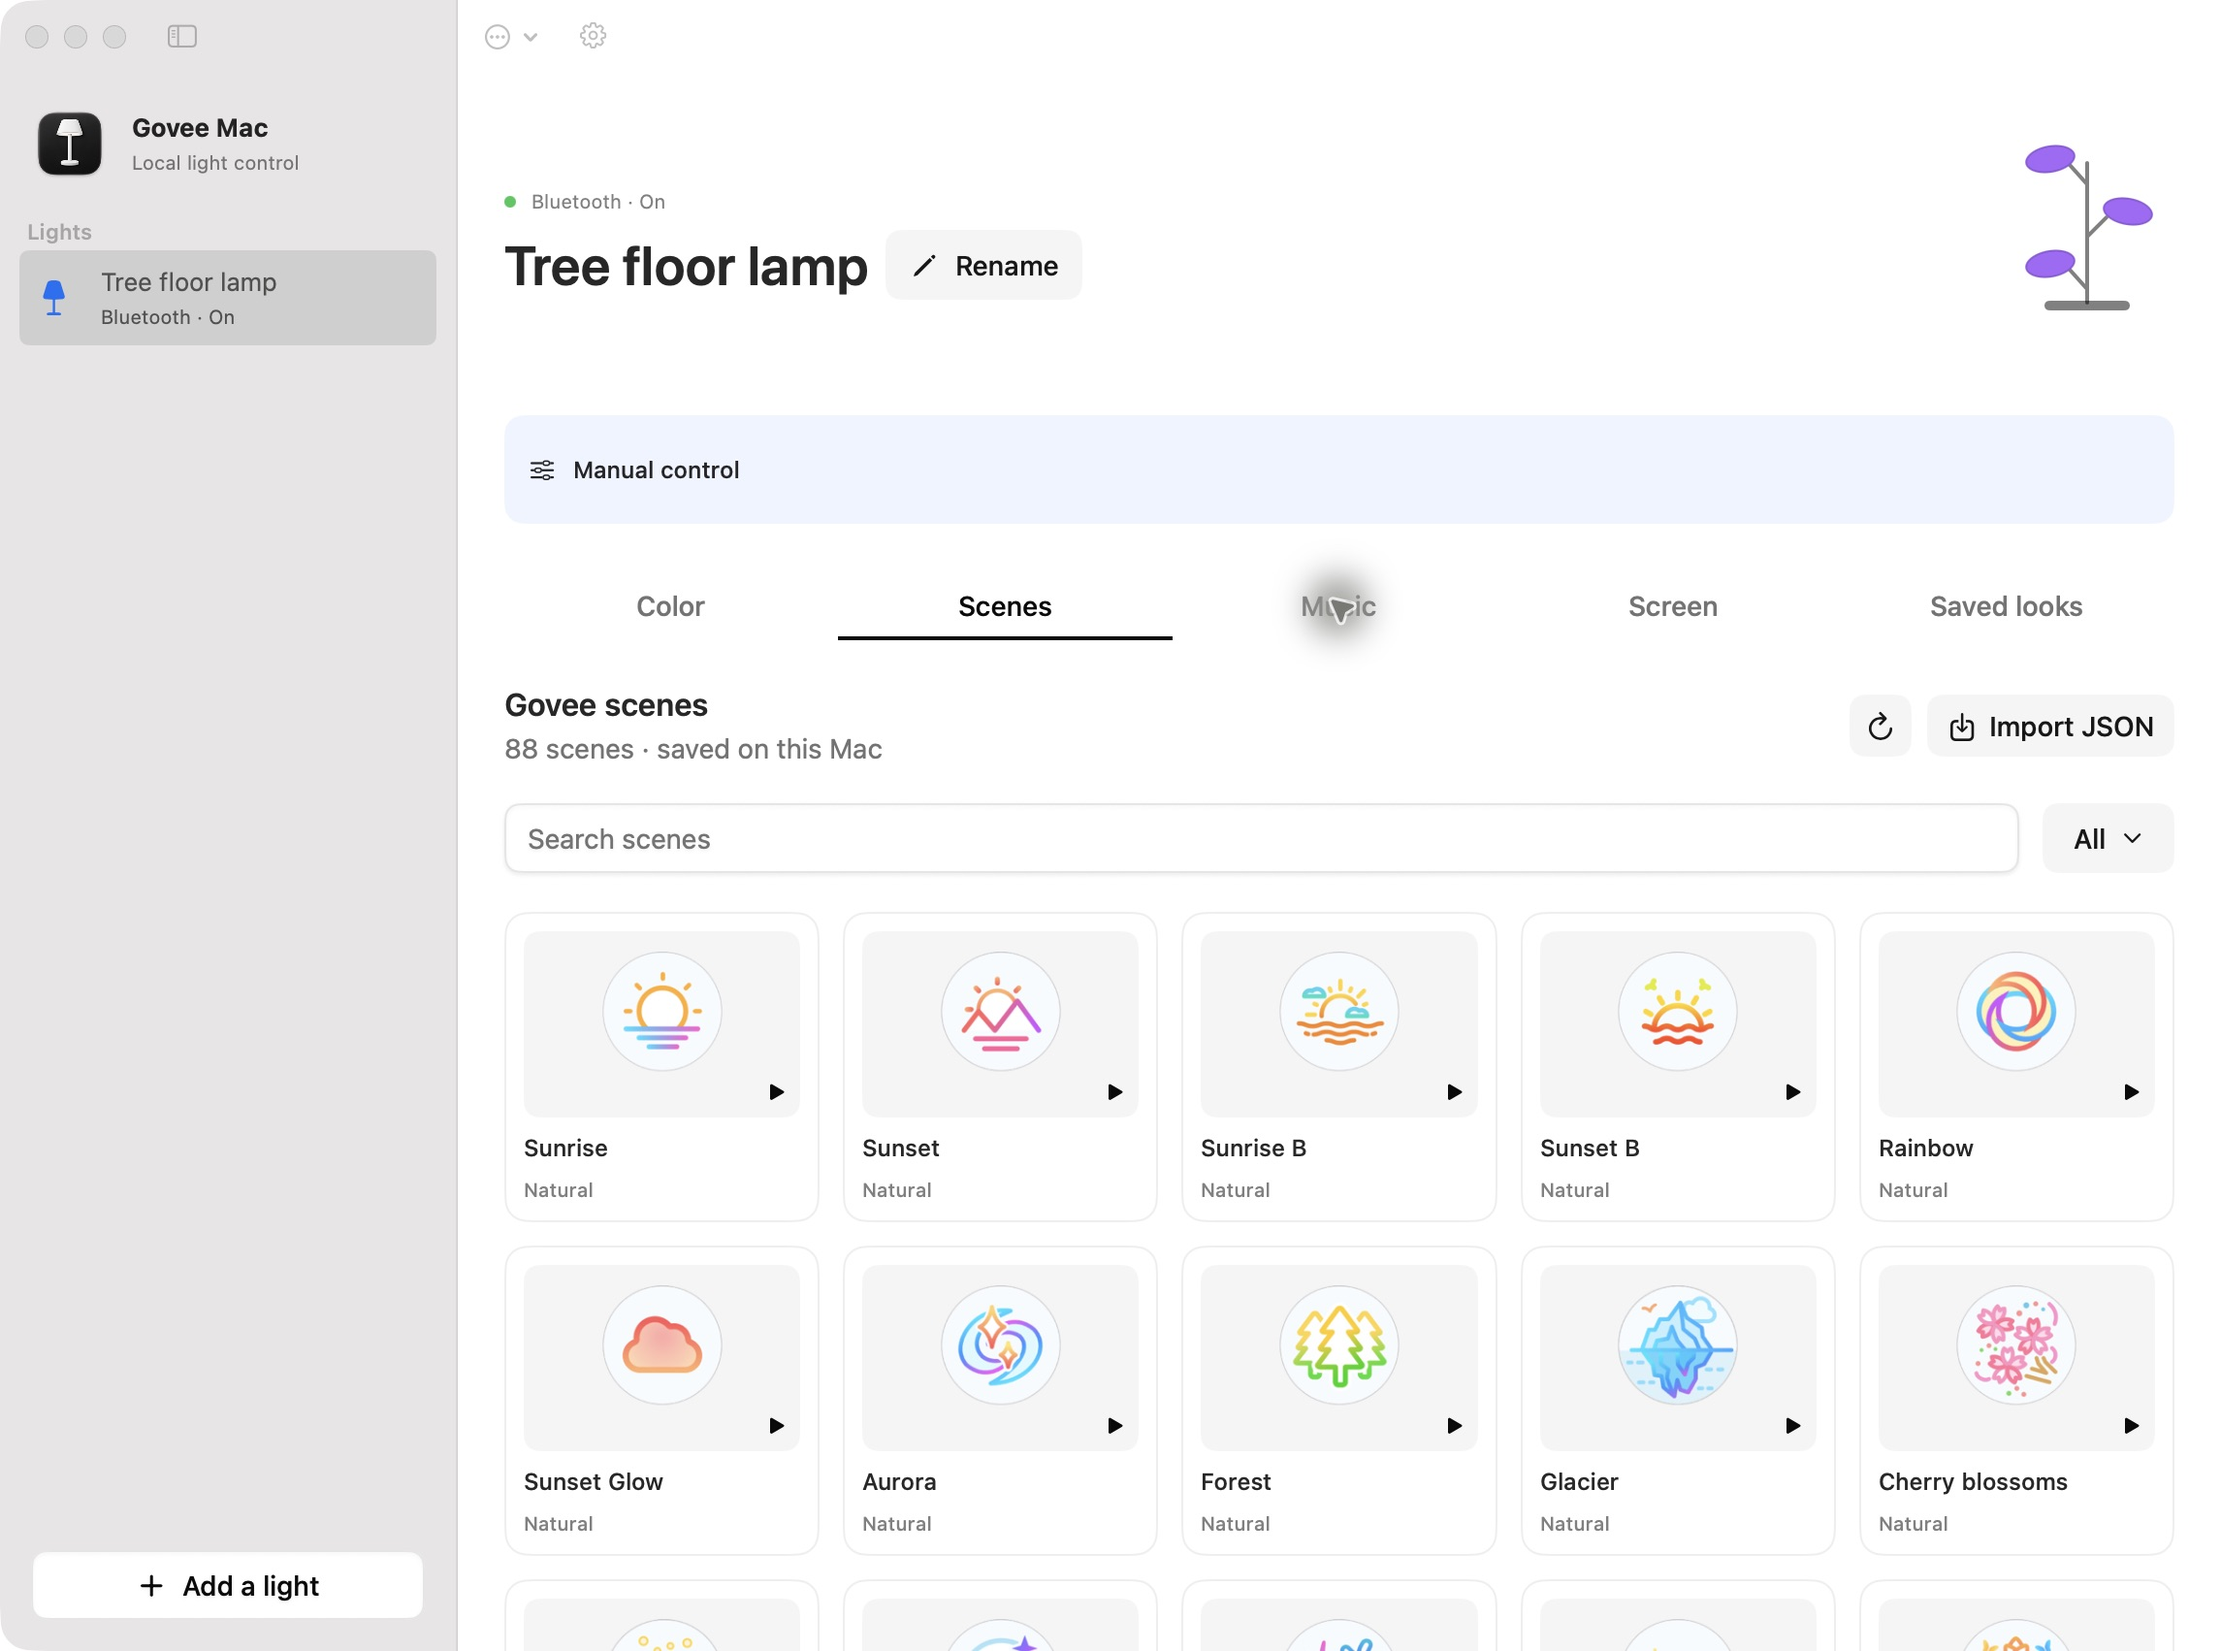
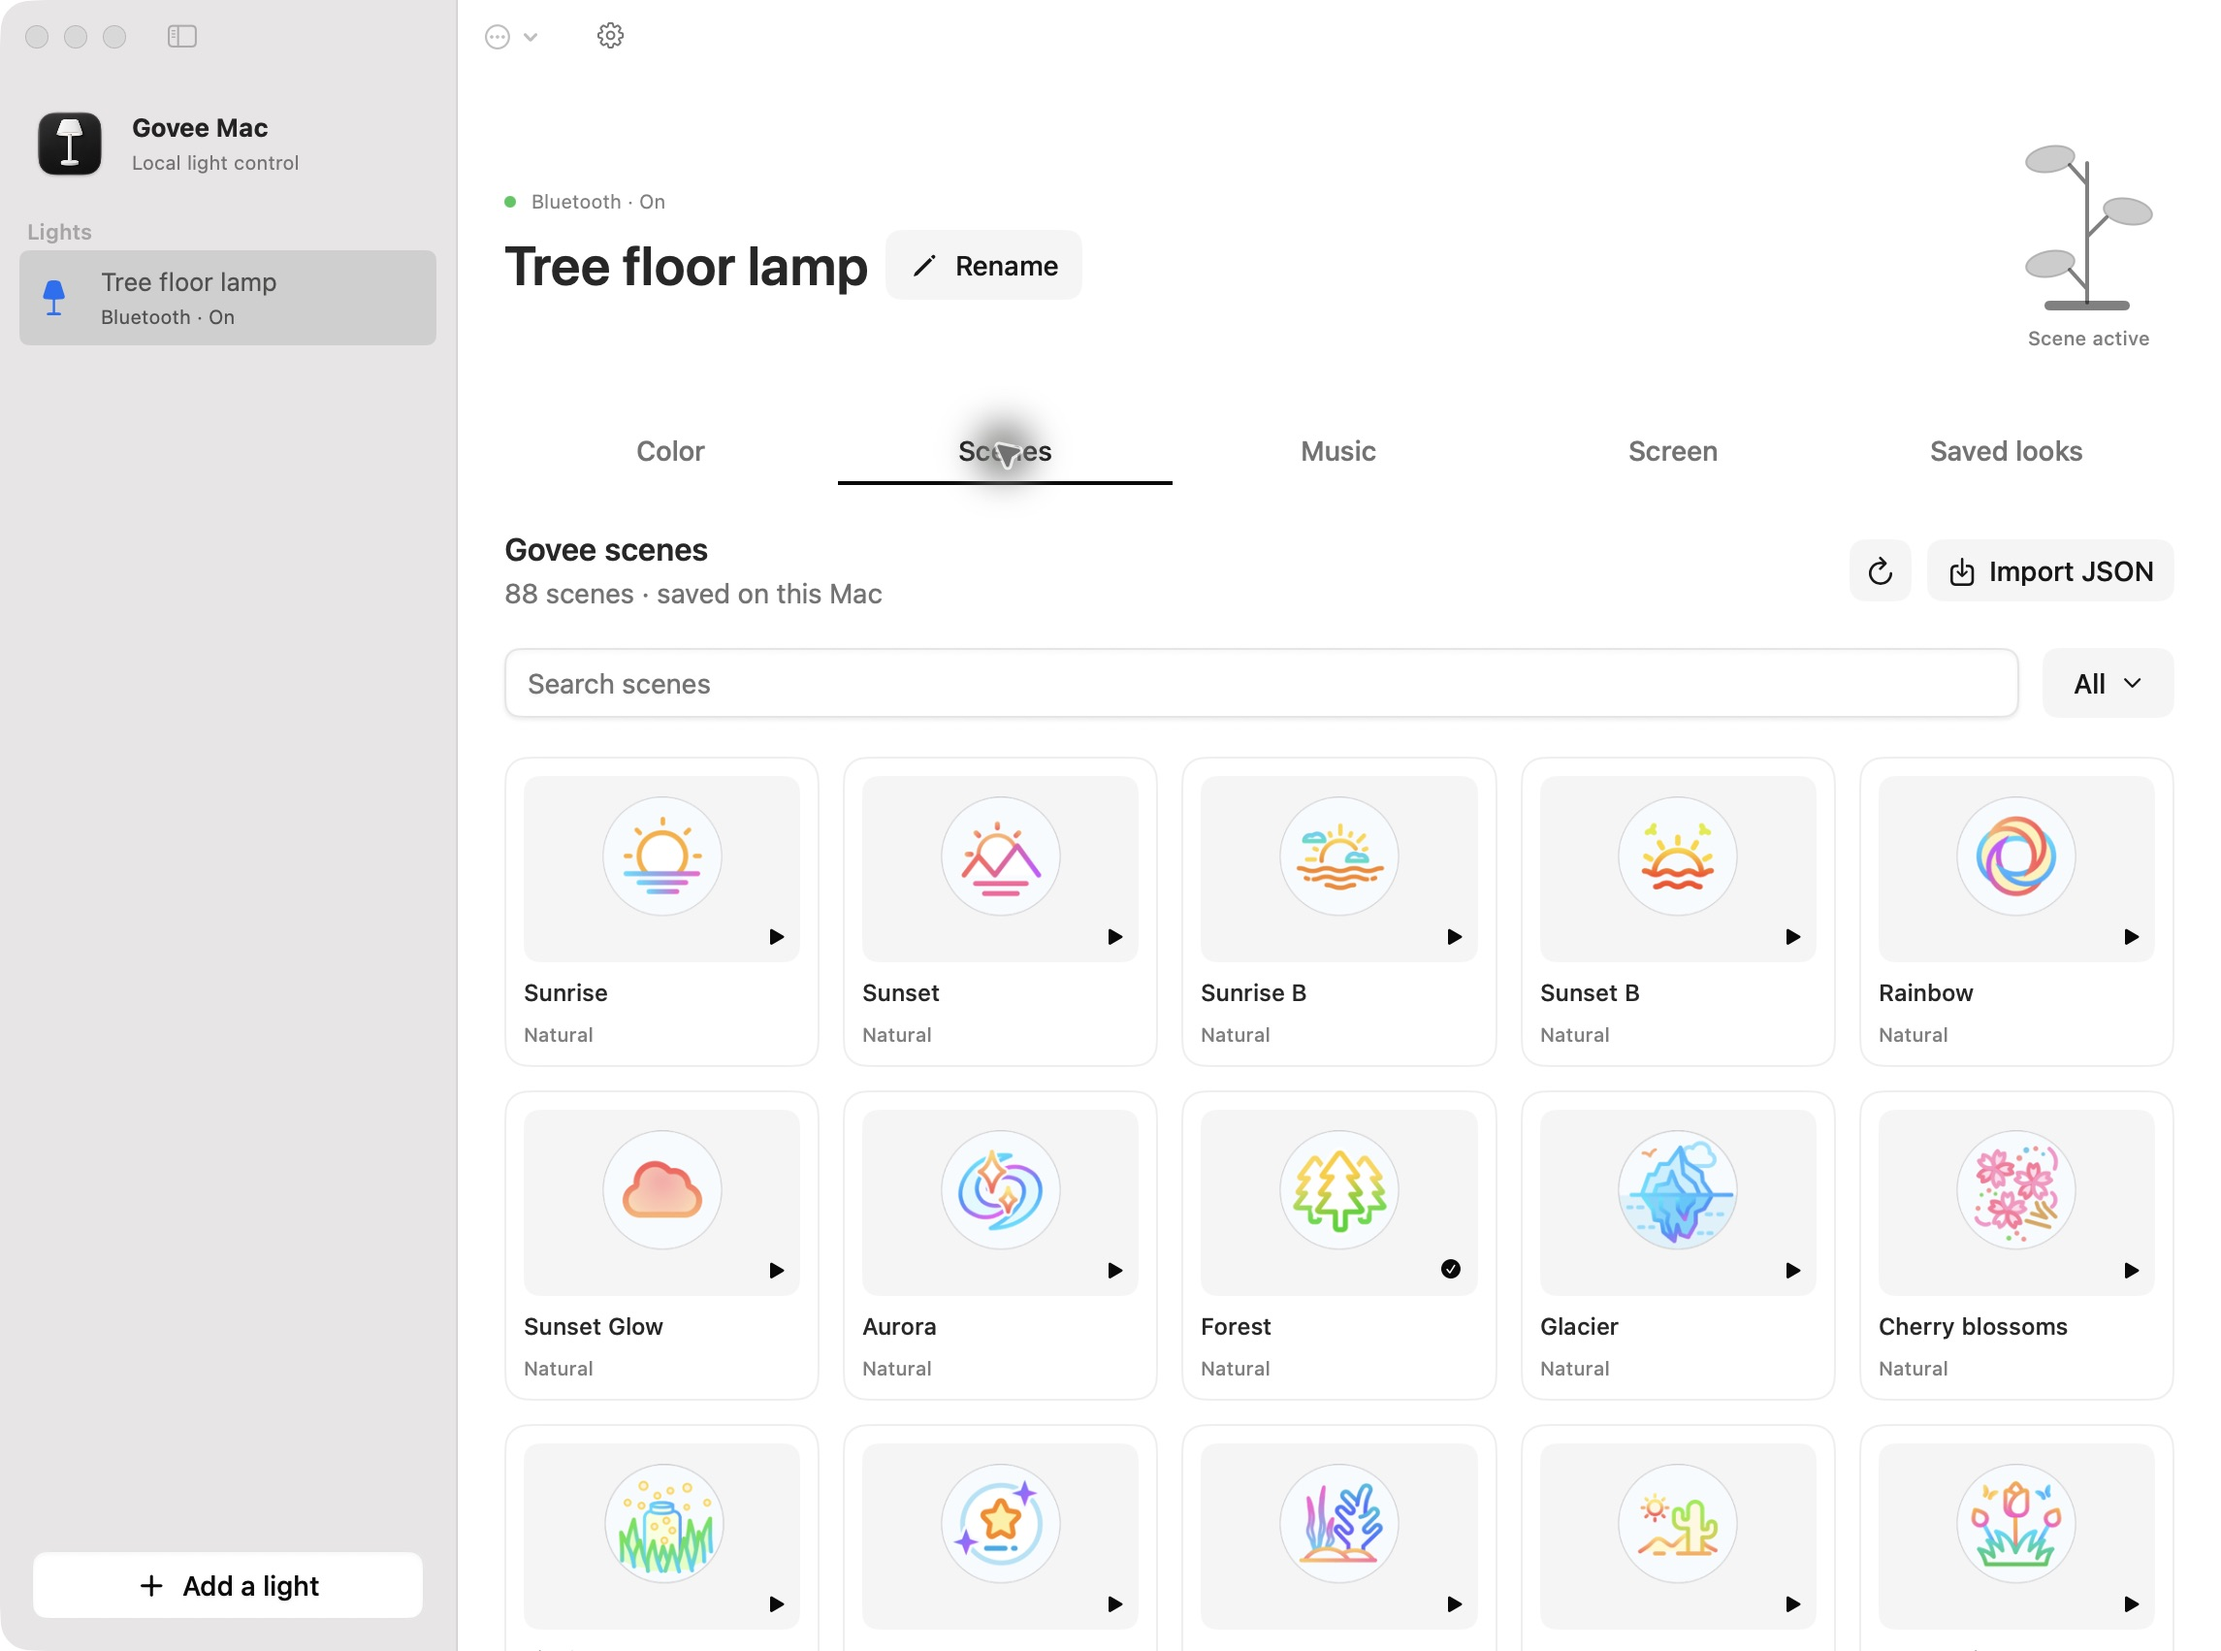
Remove the lighting status bar from the detail page

diff --git a/Sources/GoveeMac/Views/DeviceDetailView.swift b/Sources/GoveeMac/Views/DeviceDetailView.swift
@@ -35,7 +35,6 @@ struct DeviceDetailView: View {
                         ShadcnButton("Retry", variant: .outline, size: .small) { Task { await store.scanLAN() } }
                     }
                 }
-                LiveStatusRow(live: store.live, deviceID: device.id, sceneName: store.activeScenes[device.id])
                 LightTabsView(selection: $tab)
 
                 switch tab {
@@ -111,38 +110,5 @@ struct DeviceDetailView: View {
                 ShadcnButton(actionTitle, action: action).keyboardShortcut(.defaultAction).disabled(!valid)
             }
         }.padding(Space.x6).frame(width: 420)
-    }
-}
-
-/// A permanent row keeps the page in place when lighting starts or stops.
-private struct LiveStatusRow: View {
-    let live: LiveController
-    let deviceID: String
-    let sceneName: String?
-    private var active: Bool { live.deviceID == deviceID || live.colorEffects.deviceID == deviceID }
-    private var title: String {
-        let base = live.deviceID == deviceID ? live.mode : sceneName.map { "Scene · \($0)" } ?? "Manual control"
-        return live.colorEffects.deviceID == deviceID ? "\(base) · \(live.colorEffects.effect?.title ?? "Effect")" : base
-    }
-
-    var body: some View {
-        HStack(spacing: 12) {
-            Label(title,
-                  systemImage: active ? "waveform.path" : sceneName == nil ? "slider.horizontal.3" : "sparkles")
-                .font(.callout.weight(.medium))
-            Spacer(minLength: 0)
-            ProgressView().controlSize(.small).opacity(live.isStarting || live.colorEffects.isStarting ? 1 : 0)
-                .accessibilityHidden(!live.isStarting && !live.colorEffects.isStarting)
-            if active {
-                ShadcnButton("Stop & restore", variant: .secondary, size: .small) {
-                    Task { await live.stop(restore: true) }
-                }
-            }
-        }
-        .padding(12)
-        .frame(height: 56)
-        .background(.tint.opacity(0.08), in: RoundedRectangle(cornerRadius: 10))
-        .accessibilityElement(children: .contain)
-        .accessibilityIdentifier("live-status-row")
     }
 }

diff --git a/README.md b/README.md
@@ -88,11 +88,11 @@ See [CLI & agent control](docs/CLI.md) and [scenes, import, music & screen match
 
 `GoveeKit` contains Sendable value models, LAN/BLE packet codecs, and the legacy session cipher, with no UI or third-party dependencies. `GoveeMac` contains the SwiftUI app, shared observable store, CoreBluetooth service, and a serial-queue UDP transport. Its buttons, switches, sliders, tabs, badges, alerts, inputs, and wrapping layout come from [ShadKit](https://github.com/jasonkneen/ShadKit), a SwiftUI component library based on shadcn/ui. Cards compose ShadKit's header/content/footer components with its palette, border and spacing in a shadow-free `FlatCard` surface. Navigation, empty states, system menus, sheets, and color picking use native macOS components. The app remains entirely Swift. Commands are serialized per light; color-picker and slider edits are debounced and BLE writes respect backpressure. Bluetooth state is queried after manual commands; session keys are kept only in memory and discarded at disconnect.
 
-ShadKit is pinned in `Package.swift` and `Package.resolved` to revision `6dbefdeb72a276708b7ca748c71ac166c0f4f17d`, which includes keyboard and accessibility support for its switches and sliders. Only its `ShadcnUI` product is linked. The standard neutral theme follows the system appearance. Light controls share equal-height panels, circular color swatches, and library inputs and sliders. Brightness shortcuts fill their panel, with two or four columns according to its width. A compact Effect menu adds brightness motion while preserving the current colors, head settings, or native scene program. Scene cards use enlarged Govee icons with neutral fallbacks. The lighting status row stays in place, and sending a command does not dim the scene or saved-look grid. Settings opens in the main window; identifiers are in its diagnostics card, and Disconnect is in the light's sidebar context menu. Scroll indicators are hidden while scrolling remains available.
+ShadKit is pinned in `Package.swift` and `Package.resolved` to revision `6dbefdeb72a276708b7ca748c71ac166c0f4f17d`, which includes keyboard and accessibility support for its switches and sliders. Only its `ShadcnUI` product is linked. The standard neutral theme follows the system appearance. Light controls share equal-height panels, circular color swatches, and library inputs and sliders. Brightness shortcuts fill their panel, with two or four columns according to its width. A compact Effect menu adds brightness motion while preserving the current colors, head settings, or native scene program. Scene cards use enlarged Govee icons with neutral fallbacks. Sending a command does not dim the scene or saved-look grid. Settings opens in the main window; identifiers are in its diagnostics card, and Disconnect is in the light's sidebar context menu. Scroll indicators are hidden while scrolling remains available.
 
 Page tabs share equal widths, type size, and height. Their buttons compose ShadKit's bare-button style, typography, and palette; selecting a tab changes the page without animating the whole layout. Scene search and category selection survive tab changes. Scene artwork is decoded to small thumbnails off the main thread, with a bounded cache of 128 images reused when returning to Scenes. Screen matching reuses its display list until you refresh it. The release build option above avoids evaluating UI performance in an unoptimized development build.
 
-Rename is centered beside the light's title. The active scene appears in the labeled lighting status row. Sliders hide the rectangular focus highlight while retaining keyboard and accessibility adjustment.
+Rename is centered beside the light's title, with the page tabs directly below the header. The selected scene is marked on its card. Sliders hide the rectangular focus highlight while retaining keyboard and accessibility adjustment.
 
 Unchanged Bluetooth keepalives do not refresh device data. Each streamed three-head frame updates the editor once, and transient brightness effects keep the editor at the user's chosen brightness ceiling. The scene browser depends on the model and availability instead of live RGB values. These changes reduce unnecessary SwiftUI updates; scroll frame timing has not been measured.
 

diff --git a/docs/SCENES-AND-SYNC.md b/docs/SCENES-AND-SYNC.md
@@ -73,13 +73,14 @@ not implemented yet, but do not inherently require cloud access. LAN temperature
 available; native white-channel control over Bluetooth is not yet implemented.
 Only supported model/firmware protocols can be controlled locally.
 
-The lighting status row stays in place when starting, switching, or stopping
-brightness effects and sync. Scene and saved-look cards remain enabled while commands
+Page tabs sit directly below the light's header. Scene and saved-look cards remain enabled while commands
 are sent in order, so one selection does not fade the entire grid. While a
 native scene plays, the lamp preview shows neutral heads marked "Scene active":
 the lamp does not report the animated RGB values, and the preview must not
 present stale manual colors as current scene colors.
-Stop & restore appears only for app-driven effects and sync. Native scenes run
+Stop & restore is available in Music and Screen while sync is running. Choose
+None in the Color page's Effect menu to stop a brightness effect and restore
+the selected brightness. Native scenes run
 on the light without the Mac sending continuous frames. Connection diagnostics
 are in the main window's Settings page, rather than a footer under each tab.
 Disconnect is available by right-clicking a connected Bluetooth light in the
